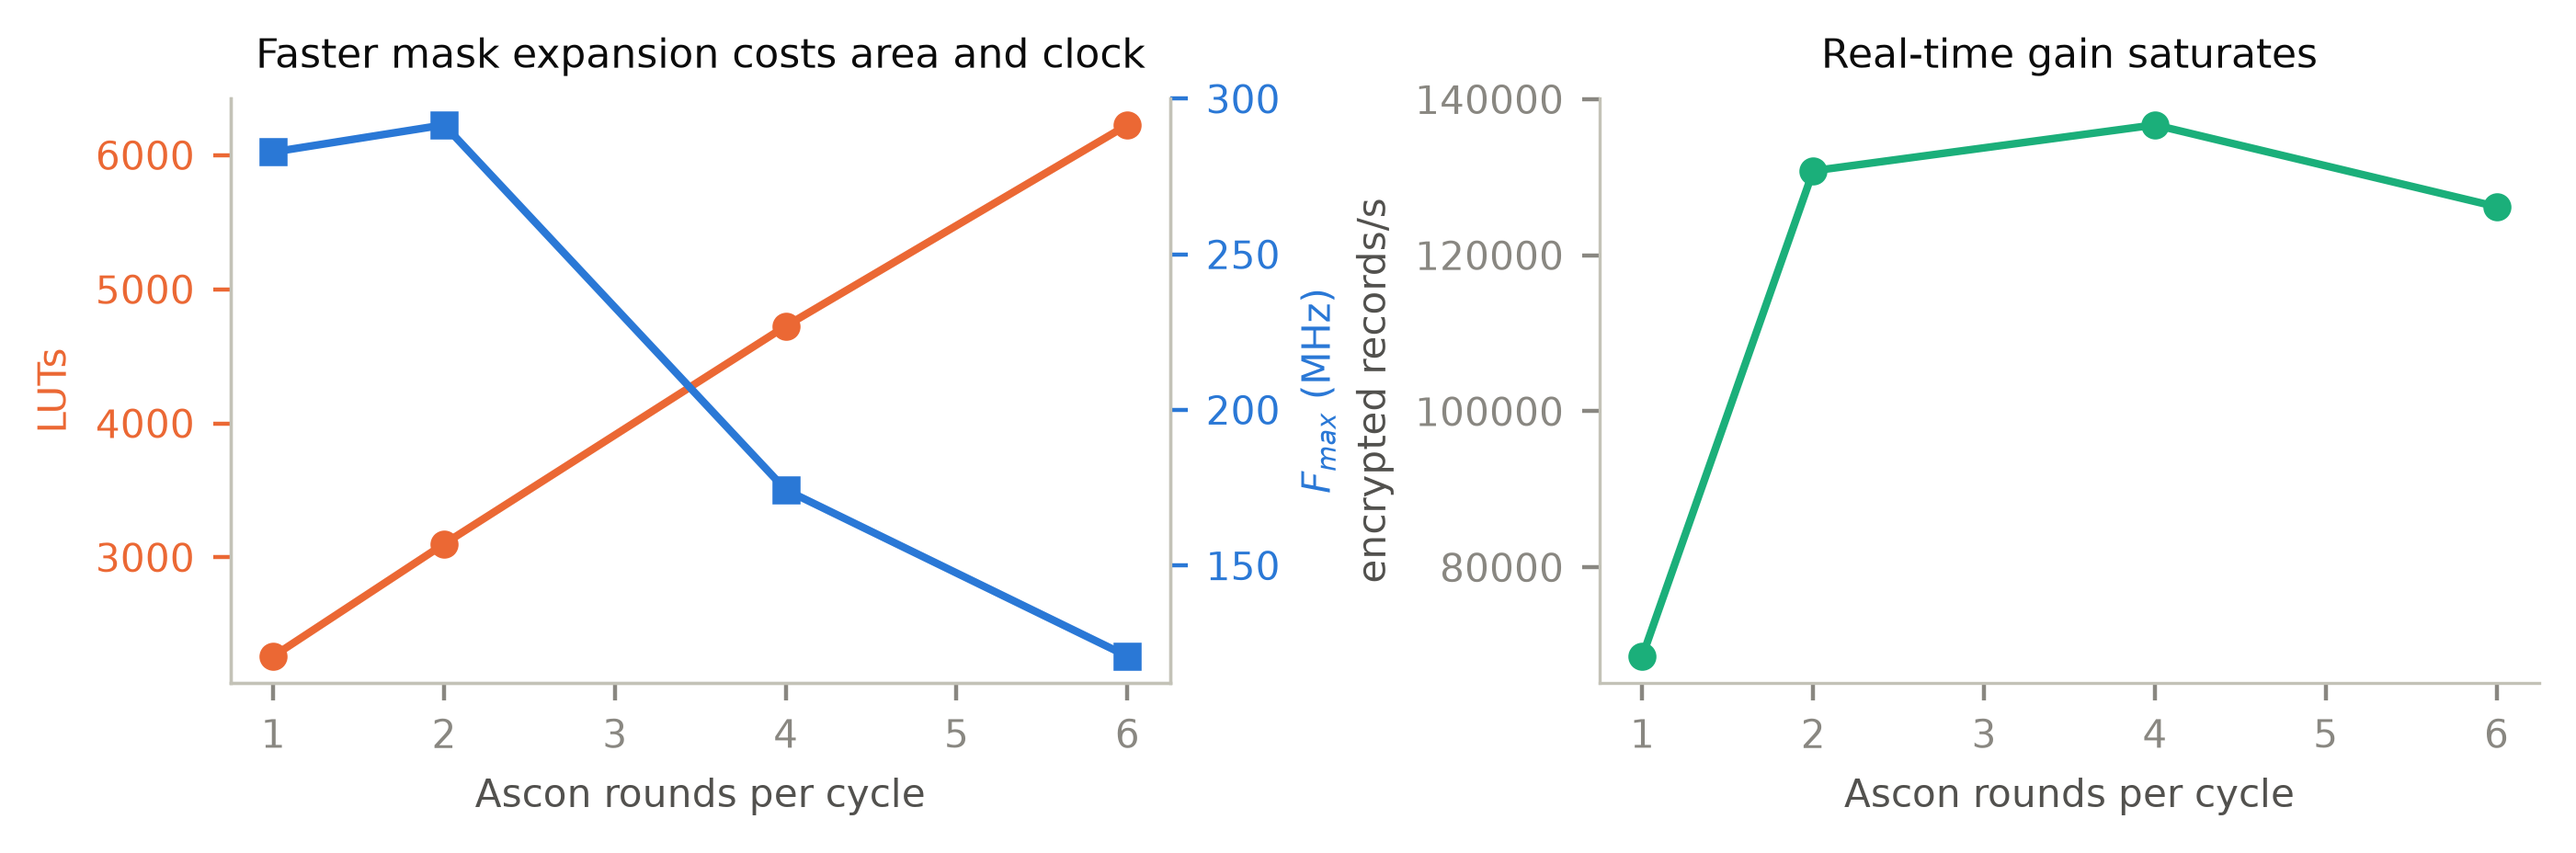
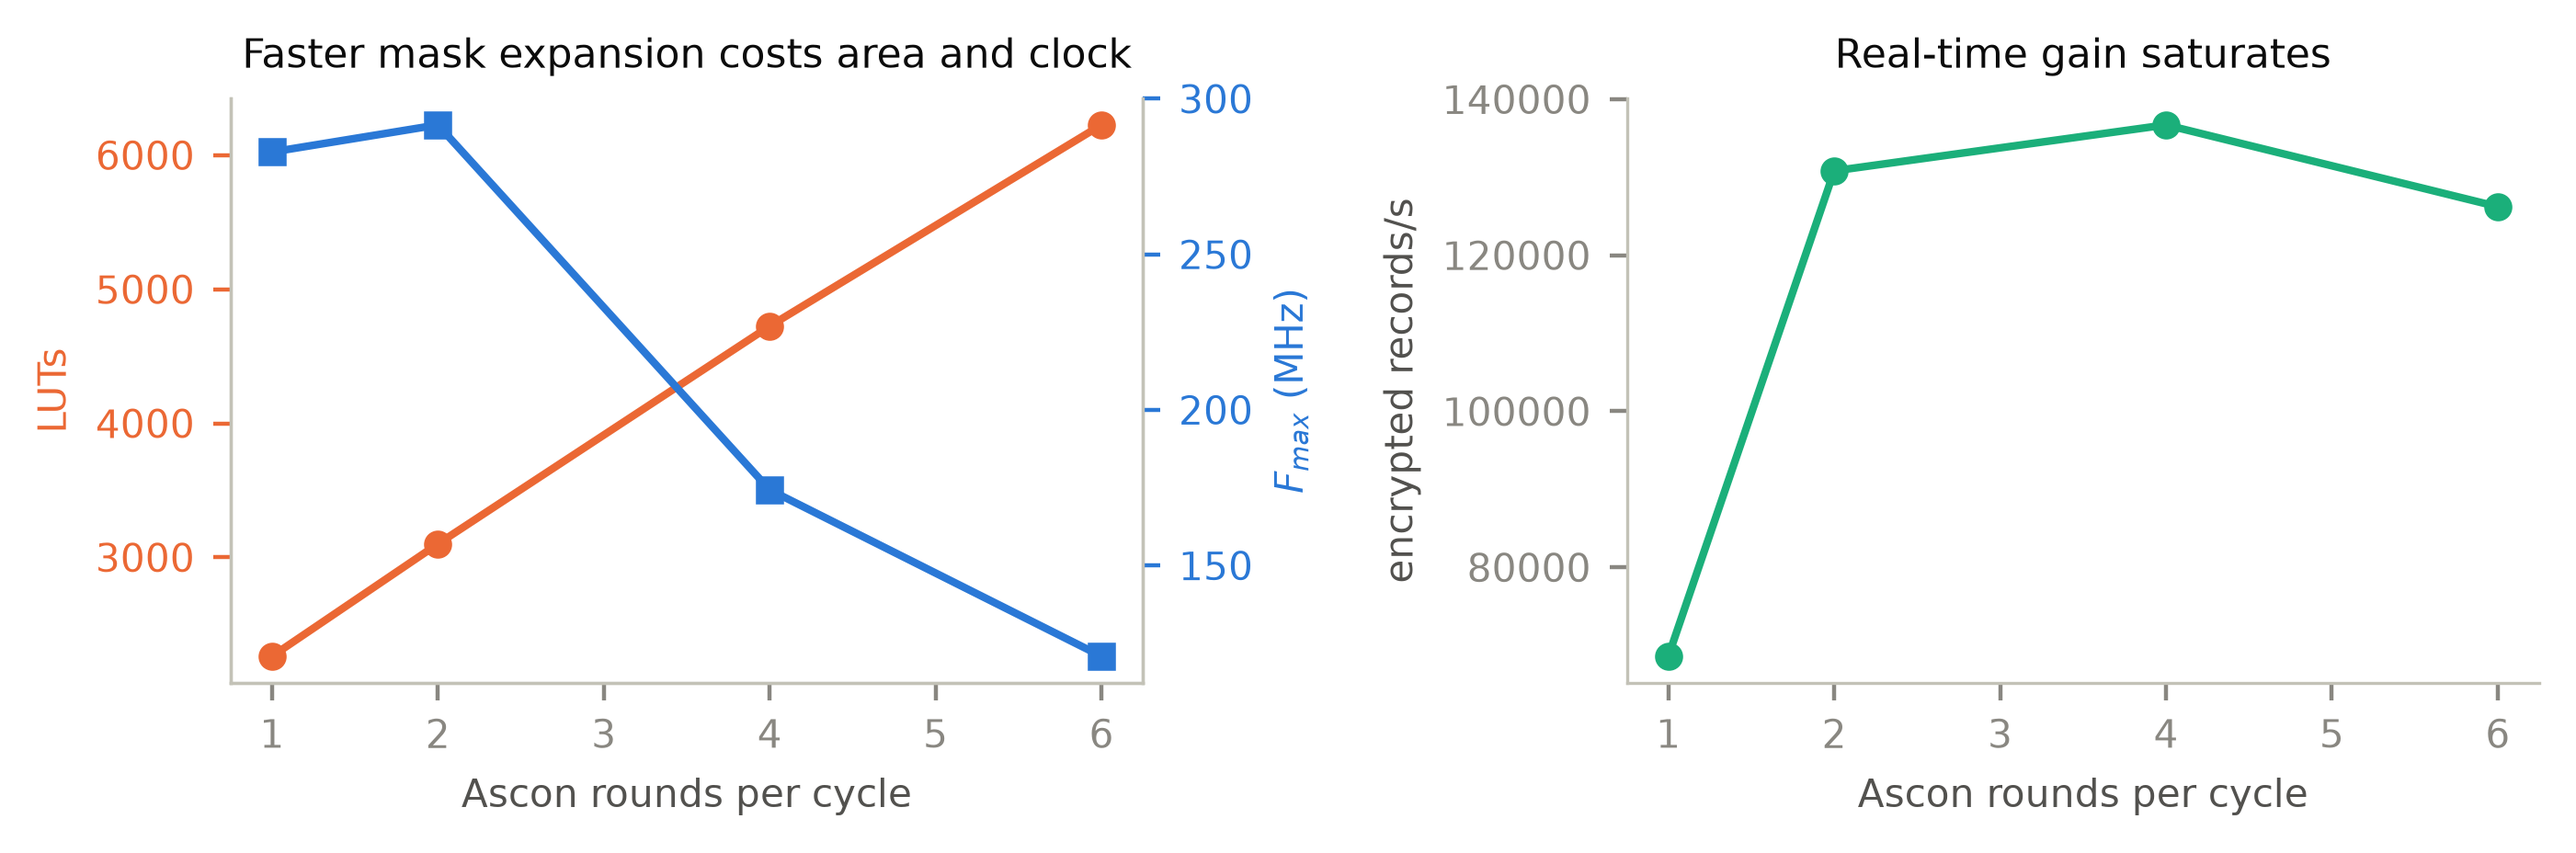
Update artifact from working tree

diff --git a/model/analyze.py b/model/analyze.py
@@ -86,7 +86,7 @@ if l2:
     a2.set_xlabel("Ascon rounds per cycle"); a2.set_ylabel("encrypted records/s")
     a2.set_title("Real-time gain saturates", fontsize=8)
     for s in ("top", "right"): a2.spines[s].set_visible(False)
-    fig.tight_layout()
+    fig.tight_layout(w_pad=2.5)
     for e in ("pdf", "png"):
         fig.savefig(os.path.join(FIG, f"fig_frontier.{e}"), bbox_inches="tight", dpi=400)
     print("\nwrote results/figures/fig_frontier.pdf")
